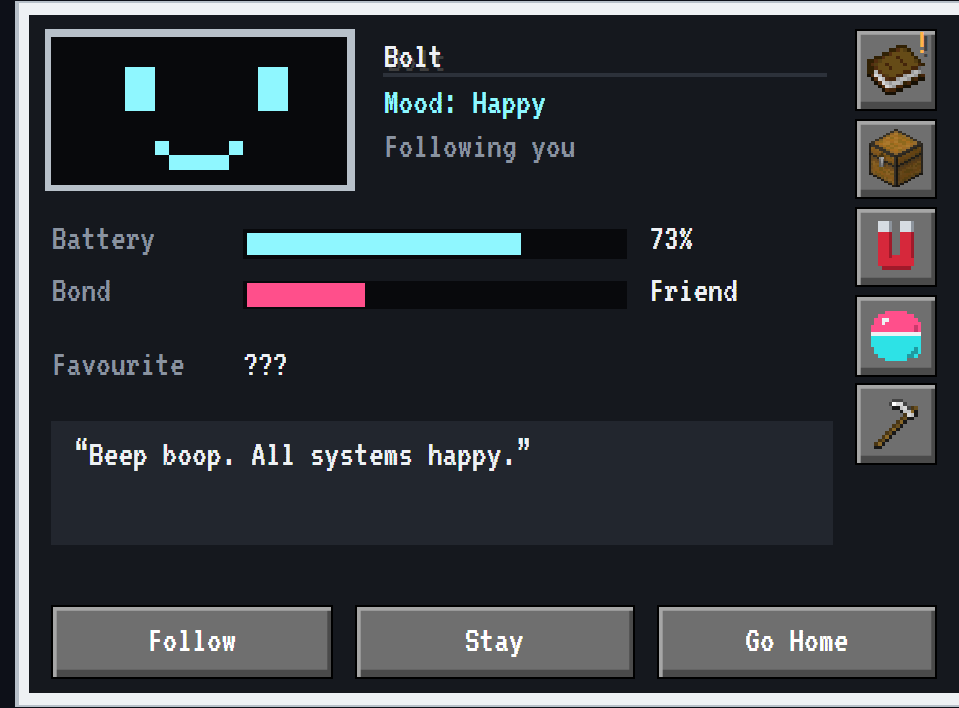
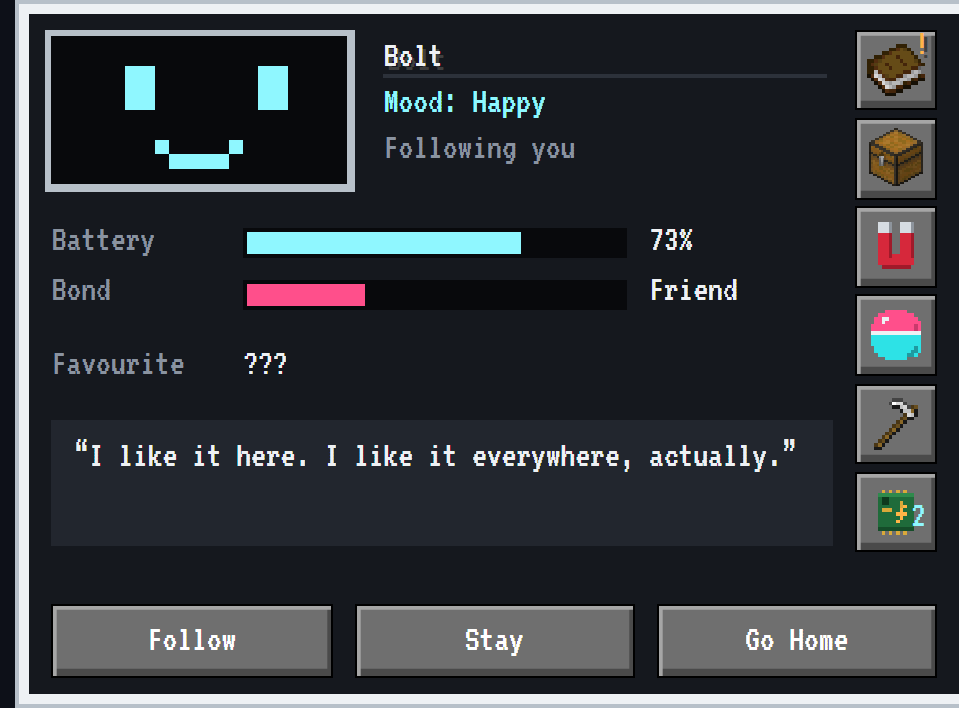
A chip button on its info screen: which chips are in, what each does, and Remove (you get it back)
Claude-Session: https://claude.ai/code/session_01KQXgr11Y44rM8FATjPeLox

diff --git a/src/main/java/io/hookdev/bleep/client/BleepScreen.java b/src/main/java/io/hookdev/bleep/client/BleepScreen.java
@@ -28,7 +28,7 @@ public class BleepScreen extends Screen {
 
     private final BleepEntity bleep;
     private int left, top;
-    private Button goHome, torch, book, chest, magnet, play, work;
+    private Button goHome, torch, book, chest, magnet, play, work, chips;
     private net.minecraft.client.gui.components.EditBox name;
 
     public BleepScreen(BleepEntity bleep) {
@@ -54,6 +54,7 @@ public class BleepScreen extends Screen {
         play = addRenderableWidget(Button.builder(Component.empty(), b -> McVersionClient.setScreen(new PlayScreen(bleep))).bounds(left + W - 32, top + 80, 22, 22)
                 .tooltip(net.minecraft.client.gui.components.Tooltip.create(Component.translatable("screen.bleep.play"))).build());
         work = addRenderableWidget(Button.builder(Component.empty(), b -> McVersionClient.setScreen(new WorkScreen(bleep))).bounds(left + W - 32, top + 104, 22, 22).build());
+        chips = addRenderableWidget(Button.builder(Component.empty(), b -> McVersionClient.setScreen(new ChipScreen(bleep))).bounds(left + W - 32, top + 128, 22, 22).build());
         // its name: click it and type a new one (Enter, or closing the screen, saves it)
         name = addRenderableWidget(new net.minecraft.client.gui.components.EditBox(font, left + 100, top + 11, 120, 10, Component.translatable("screen.bleep.name")));
         name.setBordered(false);
@@ -103,6 +104,11 @@ public class BleepScreen extends Screen {
         if (bleep.isRemoved() || player == null || bleep.distanceToSqr(player) > 16 * 16) onClose();
         goHome.active = bleep.home() != null;
         torch.visible = bleep.getOffhandItem().is(net.minecraft.world.item.Items.TORCH);
+        net.minecraft.network.chat.MutableComponent installed = Component.translatable("screen.bleep.chips");
+        for (io.hookdev.bleep.entity.Chip chip : io.hookdev.bleep.entity.Chip.values()) {
+            if (bleep.has(chip)) installed.append("\n- ").append(Component.translatable("item.bleep." + chip.id()));
+        }
+        chips.setTooltip(net.minecraft.client.gui.components.Tooltip.create(bleep.chips() == 0 ? Component.translatable("screen.bleep.chips.none") : installed));
         work.active = bleep.isOrderedToSit() && !bleep.onHome();
         work.setTooltip(net.minecraft.client.gui.components.Tooltip.create(Component.translatable(work.active ? "screen.bleep.work" : "screen.bleep.work.stay_first")));
         magnet.setTooltip(net.minecraft.client.gui.components.Tooltip.create(Component.translatable(bleep.magnet() ? "screen.bleep.magnet.on" : "screen.bleep.magnet.off")));
@@ -163,6 +169,8 @@ public class BleepScreen extends Screen {
         g.blit(MAGNET, magnet.getX() + 3, magnet.getY() + 3, magnet.getX() + 19, magnet.getY() + 19, 0, 1, 0, 1);
         g.item(new net.minecraft.world.item.ItemStack(io.hookdev.bleep.BleepContent.BALL.get()), play.getX() + 3, play.getY() + 3);
         g.item(new net.minecraft.world.item.ItemStack(net.minecraft.world.item.Items.IRON_HOE), work.getX() + 3, work.getY() + 3);
+        g.item(new net.minecraft.world.item.ItemStack(io.hookdev.bleep.BleepContent.CHIPS.get(io.hookdev.bleep.entity.Chip.SPEED).get()), chips.getX() + 3, chips.getY() + 3);
+        if (bleep.chips() != 0) g.text(font, Integer.bitCount(bleep.chips()) + "", chips.getX() + 15, chips.getY() + 13, GLOW, true); // how many are in
         if (bleep.magnet()) g.fill(magnet.getX() + 3, magnet.getY() + 19, magnet.getX() + 19, magnet.getY() + 20, GLOW); // on: a glowing line under it
         if (bleep.news() && (bleep.tickCount / 10) % 2 == 0) g.text(font, "!", book.getX() + 16, book.getY() + 1, AMBER, true);
     }

diff --git a/src/main/java/io/hookdev/bleep/client/ChipScreen.java b/src/main/java/io/hookdev/bleep/client/ChipScreen.java
@@ -1,0 +1,69 @@
+package io.hookdev.bleep.client;
+
+import io.hookdev.bleep.BleepContent;
+import io.hookdev.bleep.entity.BleepEntity;
+import io.hookdev.bleep.entity.Chip;
+import io.hookdev.bleep.network.BleepCommand;
+import net.minecraft.client.gui.GuiGraphicsExtractor;
+import net.minecraft.client.gui.components.Button;
+import net.minecraft.client.gui.screens.Screen;
+import net.minecraft.network.chat.Component;
+import net.minecraft.world.item.ItemStack;
+import net.neoforged.neoforge.client.network.ClientPacketDistributor;
+
+/**
+ * Its chips (the chip on its info screen): each kind with what it does, whether it is in, and a Remove button that
+ * takes it out again (you get it back). Installing is a right-click on the bleep with the chip.
+ */
+public class ChipScreen extends Screen {
+    private static final int W = 232, H = 170, ROW = 36, TEXT = 0xFFEEF1F4, DIM = 0xFF8A93A0, GLOW = 0xFF8FF7FF;
+    private final BleepEntity bleep;
+    private final Button[] remove = new Button[Chip.values().length];
+    private int left, top;
+
+    public ChipScreen(BleepEntity bleep) {
+        super(Component.translatable("screen.bleep.chips"));
+        this.bleep = bleep;
+    }
+
+    @Override
+    protected void init() {
+        left = (width - W) / 2;
+        top = (height - H) / 2;
+        for (Chip chip : Chip.values()) {
+            int i = chip.ordinal();
+            remove[i] = addRenderableWidget(Button.builder(Component.translatable("screen.bleep.chips.remove"),
+                    b -> ClientPacketDistributor.sendToServer(new BleepCommand(bleep.getId(), BleepCommand.REMOVE_CHIP + i))).bounds(left + W - 70, top + 30 + i * ROW, 60, 16).build());
+        }
+        addRenderableWidget(Button.builder(Component.translatable("screen.bleep.back"), b -> McVersionClient.setScreen(new BleepScreen(bleep))).bounds(left + 82, top + H - 28, 68, 20).build());
+    }
+
+    @Override
+    public void tick() {
+        super.tick();
+        var player = minecraft.player;
+        if (bleep.isRemoved() || player == null || bleep.distanceToSqr(player) > 16 * 16) onClose();
+        for (Chip chip : Chip.values()) remove[chip.ordinal()].visible = bleep.has(chip);
+    }
+
+    @Override
+    public void extractRenderState(GuiGraphicsExtractor g, int mouseX, int mouseY, float partialTicks) {
+        PlayScreen.frame(g, font, left, top, W, H, Component.translatable("screen.bleep.chips.title", bleep.getDisplayName()));
+        for (Chip chip : Chip.values()) {
+            int y = top + 28 + chip.ordinal() * ROW;
+            boolean in = bleep.has(chip);
+            g.fill(left + 10, y - 2, left + W - 10, y + ROW - 6, 0xFF22262E);
+            g.item(new ItemStack(BleepContent.CHIPS.get(chip).get()), left + 14, y + 2);
+            g.text(font, Component.translatable("item.bleep." + chip.id()), left + 36, y + 1, in ? TEXT : DIM, false);
+            g.textWithWordWrap(font, Component.translatable("screen.bleep.chips." + chip.name().toLowerCase(java.util.Locale.ROOT)), left + 36, y + 12, W - 120, DIM);
+            if (!in) g.text(font, Component.translatable("screen.bleep.chips.not_in"), left + W - 70, y + 6, DIM, false);
+            else g.text(font, Component.translatable("screen.bleep.chips.in"), left + W - 70 - font.width(Component.translatable("screen.bleep.chips.in")) - 6, y + 6, GLOW, false);
+        }
+        super.extractRenderState(g, mouseX, mouseY, partialTicks);
+    }
+
+    @Override
+    public boolean isPauseScreen() {
+        return false;
+    }
+}

diff --git a/src/main/java/io/hookdev/bleep/network/BleepCommand.java b/src/main/java/io/hookdev/bleep/network/BleepCommand.java
@@ -15,7 +15,7 @@ import org.jspecify.annotations.Nullable;
 public record BleepCommand(int entityId, int command) implements CustomPacketPayload {
     public static final int FOLLOW = BleepEntity.FOLLOW, STAY = BleepEntity.STAY, GO_HOME = BleepEntity.GO_HOME, TAKE_TORCH = 3, OPEN_BOOK = 4, OPEN_STORAGE = 5, MAGNET = 6, HIDE = 10, SEEK = 11;
     /** Plus a trick (Trick ordinal), a stay radius, or a job (its JOB_ bit). */
-    public static final int TRICK = 20, RADIUS = 100, JOB = 200;
+    public static final int TRICK = 20, RADIUS = 100, JOB = 200, REMOVE_CHIP = 300;
     public static final Type<BleepCommand> TYPE = new Type<>(Bleep.id("command"));
     public static final StreamCodec<RegistryFriendlyByteBuf, BleepCommand> CODEC = CustomPacketPayload.codec(BleepCommand::write, BleepCommand::read);
     /** How far from the player a bleep still hears its owner. */
@@ -46,6 +46,9 @@ public record BleepCommand(int entityId, int command) implements CustomPacketPay
         if (command == OPEN_STORAGE) {
             if (player instanceof net.minecraft.server.level.ServerPlayer server) bleep.openStorage(server);
             return true;
+        }
+        if (command >= REMOVE_CHIP && command < REMOVE_CHIP + io.hookdev.bleep.entity.Chip.values().length) {
+            return bleep.uninstall(io.hookdev.bleep.entity.Chip.values()[command - REMOVE_CHIP], player);
         }
         if (command == HIDE) return bleep.startHiding();
         if (command == SEEK) return bleep.startSeeking();

diff --git a/src/main/java/io/hookdev/bleep/gametest/BleepGameTests.java b/src/main/java/io/hookdev/bleep/gametest/BleepGameTests.java
@@ -1023,6 +1023,9 @@ public final class BleepGameTests {
         helper.assertFalse(bleep.give(owner, chip), "one of each kind");
         bleep.give(owner, new ItemStack(BleepContent.CHIPS.get(io.hookdev.bleep.entity.Chip.SHIELD).get()));
         helper.assertTrue(io.hookdev.bleep.network.BleepediaData.of(bleep).chips() == 3, "its chips are in its Bleepedia");
+        helper.assertTrue(bleep.uninstall(io.hookdev.bleep.entity.Chip.SPEED, owner) && !bleep.has(io.hookdev.bleep.entity.Chip.SPEED), "a chip can come out again");
+        helper.assertTrue(Math.abs(bleep.getAttributeValue(net.minecraft.world.entity.ai.attributes.Attributes.MOVEMENT_SPEED) - speed) < 1e-6, "and it is back to its own speed");
+        helper.assertTrue(owner.getInventory().contains(s -> s.is(BleepContent.CHIPS.get(io.hookdev.bleep.entity.Chip.SPEED).get())), "its owner gets the chip back");
         helper.succeed();
     }
 

diff --git a/src/main/java/io/hookdev/bleep/entity/BleepEntity.java b/src/main/java/io/hookdev/bleep/entity/BleepEntity.java
@@ -1836,6 +1836,18 @@ public class BleepEntity extends TamableAnimal {
         remember("diary.bleep.chip", "item.bleep." + chip.id());
     }
 
+    /** Takes a chip out again: its owner gets it back. */
+    public boolean uninstall(Chip chip, Player player) {
+        if (!has(chip)) return false;
+        this.entityData.set(CHIPS, chips() & ~chip.bit());
+        applyChips();
+        ItemStack item = new ItemStack(BleepContent.CHIPS.get(chip).get());
+        if (!player.getInventory().add(item)) spawnAtLocation((ServerLevel) level(), item);
+        feel(Emotion.SURPRISED, 30);
+        say("thought.bleep.chip.removed");
+        return true;
+    }
+
     private static final Identifier SPEED_CHIP = Identifier.fromNamespaceAndPath("bleep", "speed_chip");
 
     /** The speed chip drives a third faster. */

diff --git a/CLAUDE.md b/CLAUDE.md
@@ -30,7 +30,7 @@ A Minecraft mod by Hook Development: small robots on tracks with a display for a
 - [x] v0.1 step 5 (30 Oct 2026): Jade (compat/jade: battery, mood, activity, bond on a bleep, no health hearts; who lives in a homebase) and JEI (compat/jei: info pages for the core, the parts and the homebase), compileOnly + localRuntime from Modrinth's maven like Setpoint (versions/<mc>/gradle.properties jade_version, jei_version). Release ready: .github/workflows/publish.yml (from Setpoint's; CurseForge project 1773780, unlisted until the first release; needs the secret CURSEFORGE in this repo). README and the CurseForge description follow Setpoint's layout exactly (owner, 30 Oct 2026); their pictures come from tools/readme-art.mjs (from Setpoint's: banner, shelves, the info screen from the docs, headless Chrome): run node tools/readme-art.mjs ../hook-development after the renders change, release/changelog/0.1.0.md, release/curseforge/description.md + summary.txt (images at the tag v0.1.0 from .github/readme), media/avatar.png 400 x 400.
 - [ ] Brainstorm 30 Oct 2026, the owner's choices. Character: every bleep is equally curious and sarcastic and afraid of llamas (no personalities, no other fears). To build:
   - [x] Birthday (30 Oct 2026): every BIRTHDAY_EVERY 30 days of its life (birthdayOn), PARTY synced (a party hat if it wears none), dust confetti, Display.BIRTHDAY ticker, a cake on the day: bond +5.
-  - [x] Chips (30 Oct 2026): entity/Chip, items <name>_chip (recipe: iron nugget, redstone, gold ingot and sugar / a shield / a redstone block), installed for good with give() (CHIPS synced bits): speed +33% (permanent attribute modifier), shield halves damage drain, battery drain() x2/3. In the Bleepedia under About me. Not: a screen colour.
+  - [x] Chips (30 Oct 2026): entity/Chip, items <name>_chip (recipe: iron nugget, redstone, gold ingot and sugar / a shield / a redstone block), installed for good with give() (CHIPS synced bits): speed +33% (permanent attribute modifier), shield halves damage drain, battery drain() x2/3. In the Bleepedia under About me. Owner (30 Oct 2026): see them and take them out: client/ChipScreen (the chip button on its info screen), uninstall() gives the chip back (BleepCommand.REMOVE_CHIP). Not: a screen colour.
   - [x] Work (30 Oct 2026): the hoe on its info screen (only while it stays, not parked) opens WorkScreen: RADIUS synced 2..16 (BleepCommand.RADIUS+r), JOBS synced bits (JOB+bit): farmer (CropBlock at max age, one seed replanted, drops to storage), guard (night, Enemy near its post: alarm, chat message, a Buddy attacks), tidy (storage to a chest or barrel, keeps weapons, balls, favourite). WorkGoal. Ideas for more jobs later.
   - [x] Play (30 Oct 2026): the ball on its info screen opens PlayScreen: hide and seek both ways (HideAndSeekGoal, by the clock: goals run every other tick), tricks (entity/Trick: spin, jump, wave, dance Friend, play dead Buddy), Bond.PLAY shared. Not: snowballs, arcade.
   - [x] Letters (30 Oct 2026): writeLetter() on a new day together (Friend or closer, 35%): a written book from its last three diary lines, signed, brought over by FetchGoal.

diff --git a/release/changelog/0.1.0.md b/release/changelog/0.1.0.md
@@ -14,7 +14,7 @@ The first Bleep: little robots on tracks with a display for a face. For Minecraf
 - **Storage and magnet.** A storage like a small chest, a magnet that pulls in what lies about, showing off what it found, and a sword from its storage for a fight. Its name is Bleep until you type a new one on its info screen; name tags do not stick.
 - **Play and company.** A ball to throw and fetch; bleeps that say hi, chat, play tag, pass the ball, fight, get jealous and cheer each other up, and become friends, best friends or rivals; home comforts (a bed, a toy, its name on a sign); a welcome home; a birthday every thirty days (a cake makes its day); llama spit that glitches its screen; ten bleeps per player at most.
 - **Play and work.** Hide and seek both ways, tricks, and jobs while it stays (farmer, guard, tidy up) with a stay radius you set.
-- **Chips and letters.** Speed, shield and battery chips, installed for good; letters from its diary.
+- **Chips and letters.** Speed, shield and battery chips (see and remove them on its info screen); letters from its diary.
 - **The Bleepedia.** A book on its info screen with every mob it met (with its face), the biomes it drove through, the special blocks it found, its stats and its diary. A ! when there is news.
 - **Out in the world.** It dances to records, sleeps next to your bed, digs things up and adores iron golems. Find an abandoned bleep and wake it with a block of redstone.
 - **Jade and JEI**, when you have them: battery, mood and bond in Jade, every recipe and where the core is found in JEI.

diff --git a/README.md b/README.md
@@ -95,7 +95,8 @@ The ball on its info screen opens Play: hide and seek (it hides, or you do) and 
 opens Work while it stays: how far it goes from its spot, and its jobs: farmer, guard at night, tidy up into a chest.
 
 ### Chips and letters
-Three upgrade chips, installed for good: speed, shield and a bigger battery. And a bleep that likes you writes you a
+Three upgrade chips: speed, shield and a bigger battery. The chip on its info screen shows which are in, and takes one
+out again. And a bleep that likes you writes you a
 letter now and then, from its diary, and brings it over.
 
 ### Parts and home

diff --git a/release/curseforge/description.md b/release/curseforge/description.md
@@ -78,7 +78,7 @@ The better you look after it, the more it likes you. A new bleep sometimes dawdl
 
 ## Chips and letters
 
-- **Upgrade chips.** A speed chip, a shield chip (hits cost half) and a battery chip (lasts half as long again), installed for good.
+- **Upgrade chips.** A speed chip, a shield chip (hits cost half) and a battery chip (lasts half as long again). The chip on its info screen shows which are in, and takes one out again.
 - **Letters.** A bleep that is your Friend now and then writes you a letter from its diary, signed, and brings it over.
 
 ## The Bleepedia
